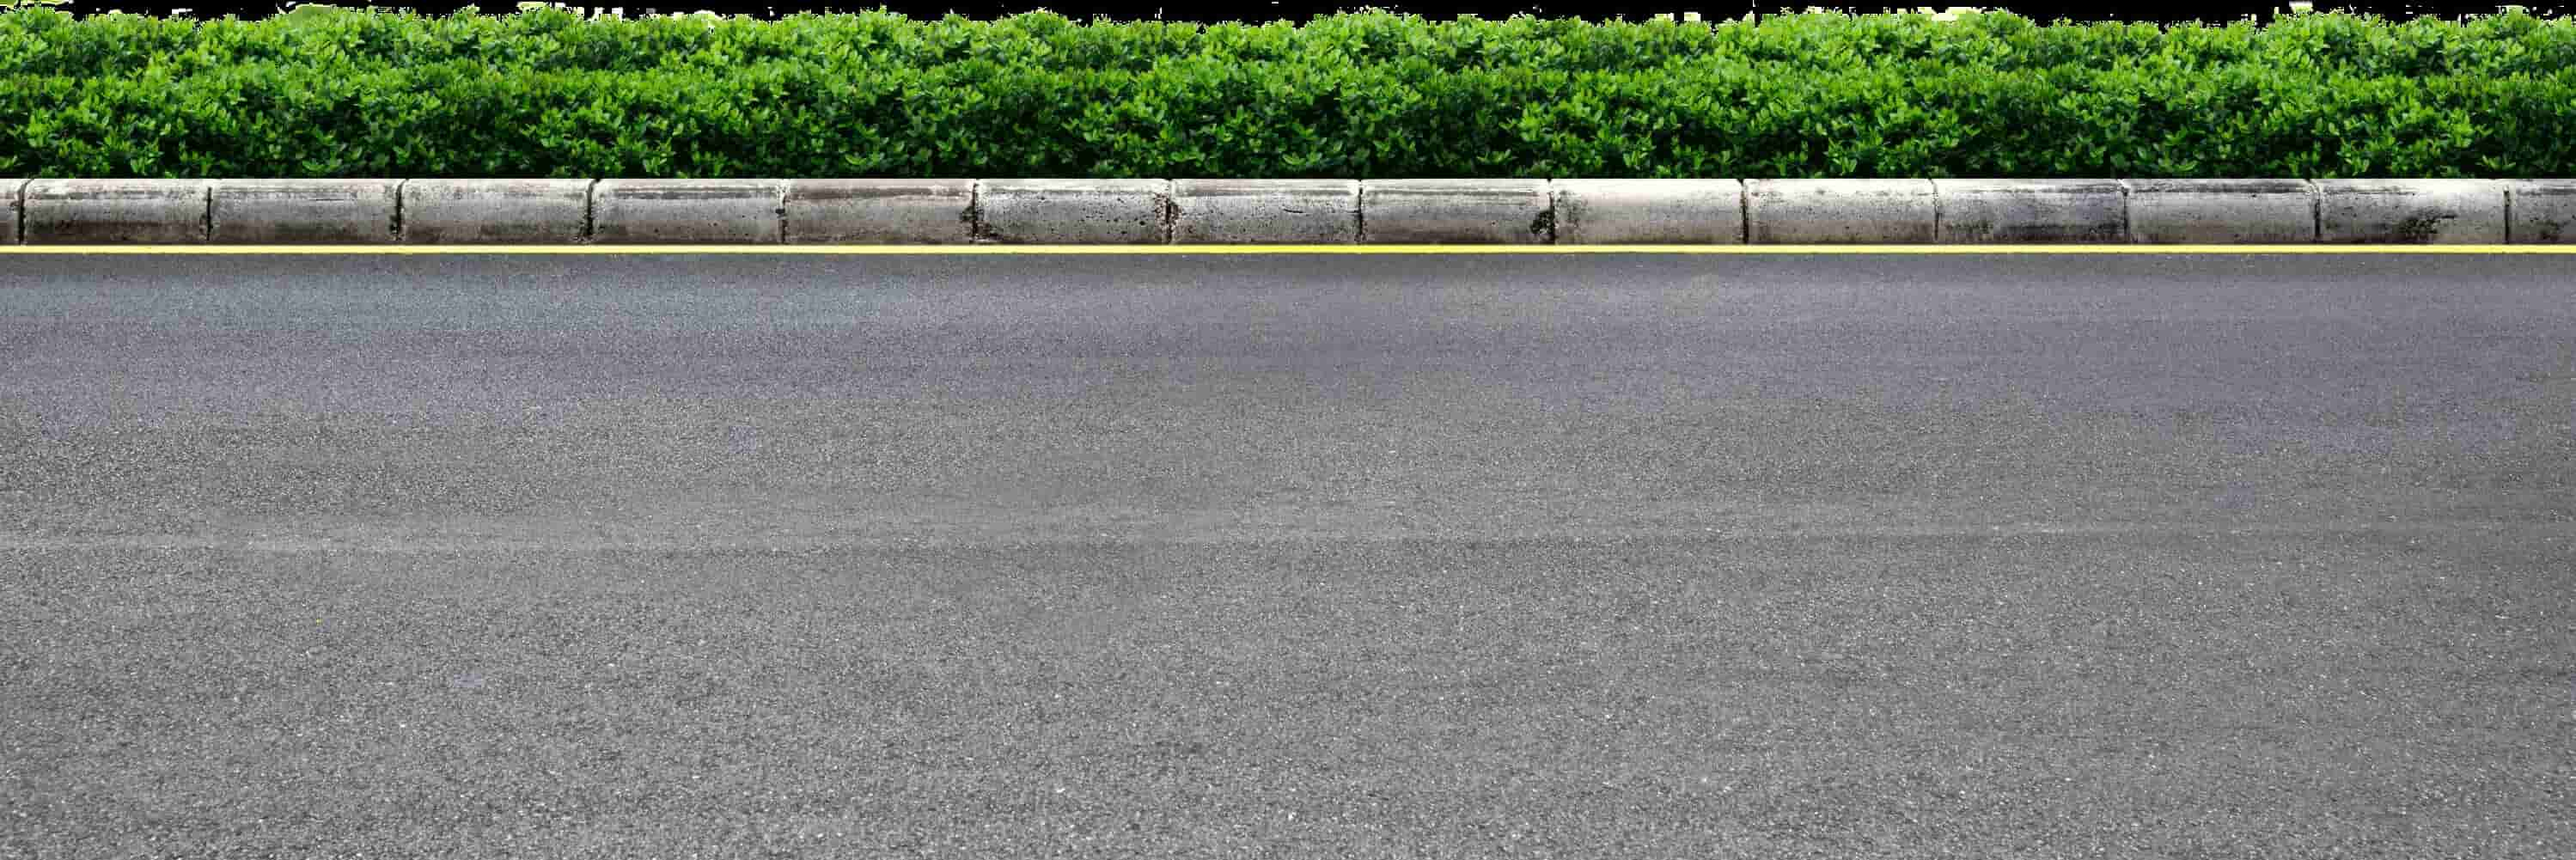
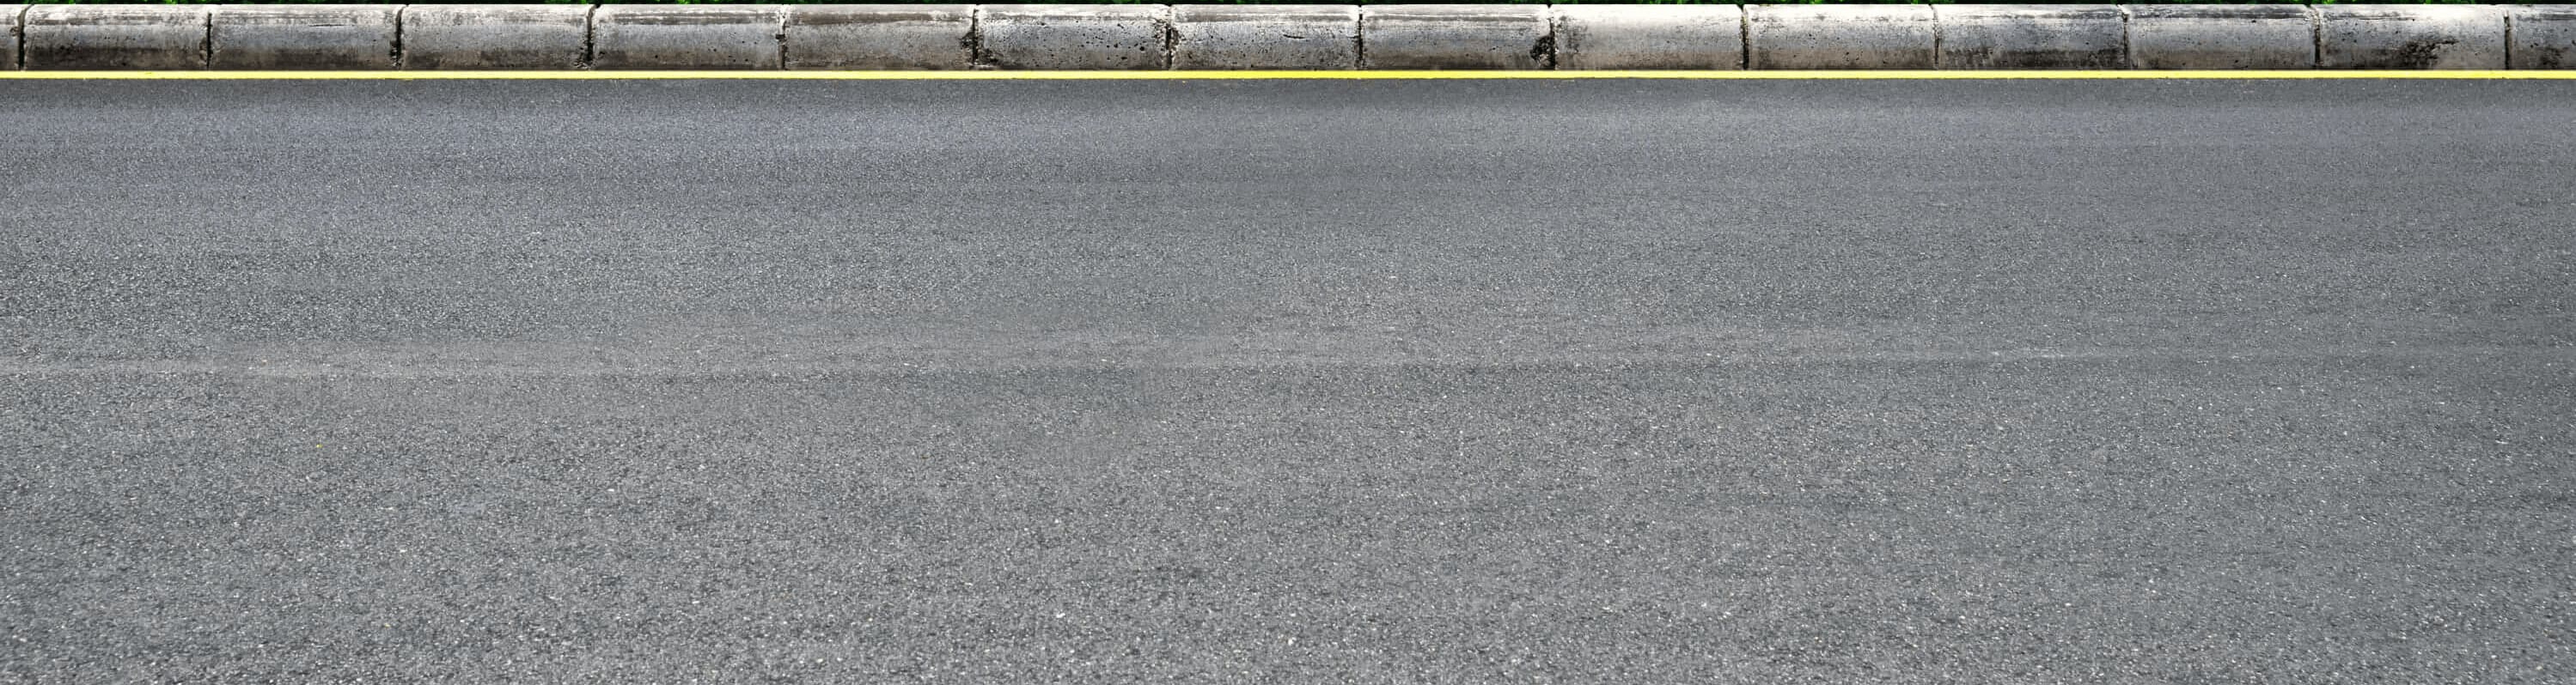
11.0.4

diff --git a/lesson_11/index.html b/lesson_11/index.html
@@ -37,21 +37,19 @@
         </div>
       </header>
       <main class="main">
-        <div class="main__container">
-          <div class="cars">
-            <div class="cars__road">road</div>
-            <div class="cars__background">mountain</div>
-            <!-- <div class="cars__body">
-              <img src="img/logan.png" alt="car body" />
-            </div> -->
-            <div class="cars__wheels">
-              <div class="cars__wheels--back">
-                <img src="img" alt="wheel" />
-              </div>
-            </div>
-            <div class="cars__windows"></div>
-            <div class="cars__headlights"></div>
+        <div class="main__container cars">
+          <div class="cars__road"></div>
+          <div class="cars__background"></div>
+          <div class="cars__body">
+            <img src="img/logan.png" alt="car body" />
           </div>
+          <div class="cars__wheels">
+            <div class="cars__wheels--back">
+              <img src="img" alt="wheel" />
+            </div>
+          </div>
+          <div class="cars__windows"></div>
+          <div class="cars__headlights"></div>
         </div>
       </main>
       <footer class="footer"></footer>

diff --git a/lesson_11/css/style.css b/lesson_11/css/style.css
@@ -6,9 +6,9 @@ body {
   line-height: 1.6;
 }
 .wrapper {
-  overflow: hidden;
-  position: relative;
   min-height: 100%;
+  max-width: 100%;
+  overflow: hidden;
 }
 
 [class*="__container"] {
@@ -75,43 +75,42 @@ body {
   color: #fff;
 }
 .main {
+  height: 100vh;
+  position: relative;
 }
 .main__container {
 }
 .cars {
 }
 .cars__background {
-  min-height: 700px;
+  min-height: 800px;
   width: 100%;
-  display: block;
   background: url(../img/mountains.jpg) 0 0 / cover no-repeat;
   position: absolute;
-  top: -150px;
+  bottom: 195px;
   left: 0;
+  right: 0;
   z-index: 1;
 }
 .cars__road {
-  height: 300px;
+  height: 200px;
   width: 100%;
   display: block;
   background: url(../img/road.jpg) 0 0 / cover no-repeat;
   position: absolute;
-  top: 300px;
   left: 0;
+  right: 0;
+  bottom: 0;
   z-index: 1;
 }
 
-/* .cars__body {
-  min-height: 400px;
-  width: 400px;
+.cars__body img {
+  width: 600px;
   position: absolute;
-  top: 500px;
-  left: 0;
+  left: 30vh;
+  bottom: 40px;
   z-index: 2;
-} */
-/* .cars__body img {
-  width: 100%;
-} */
+}
 .cars__wheels {
 }
 .cars__wheels--back {
